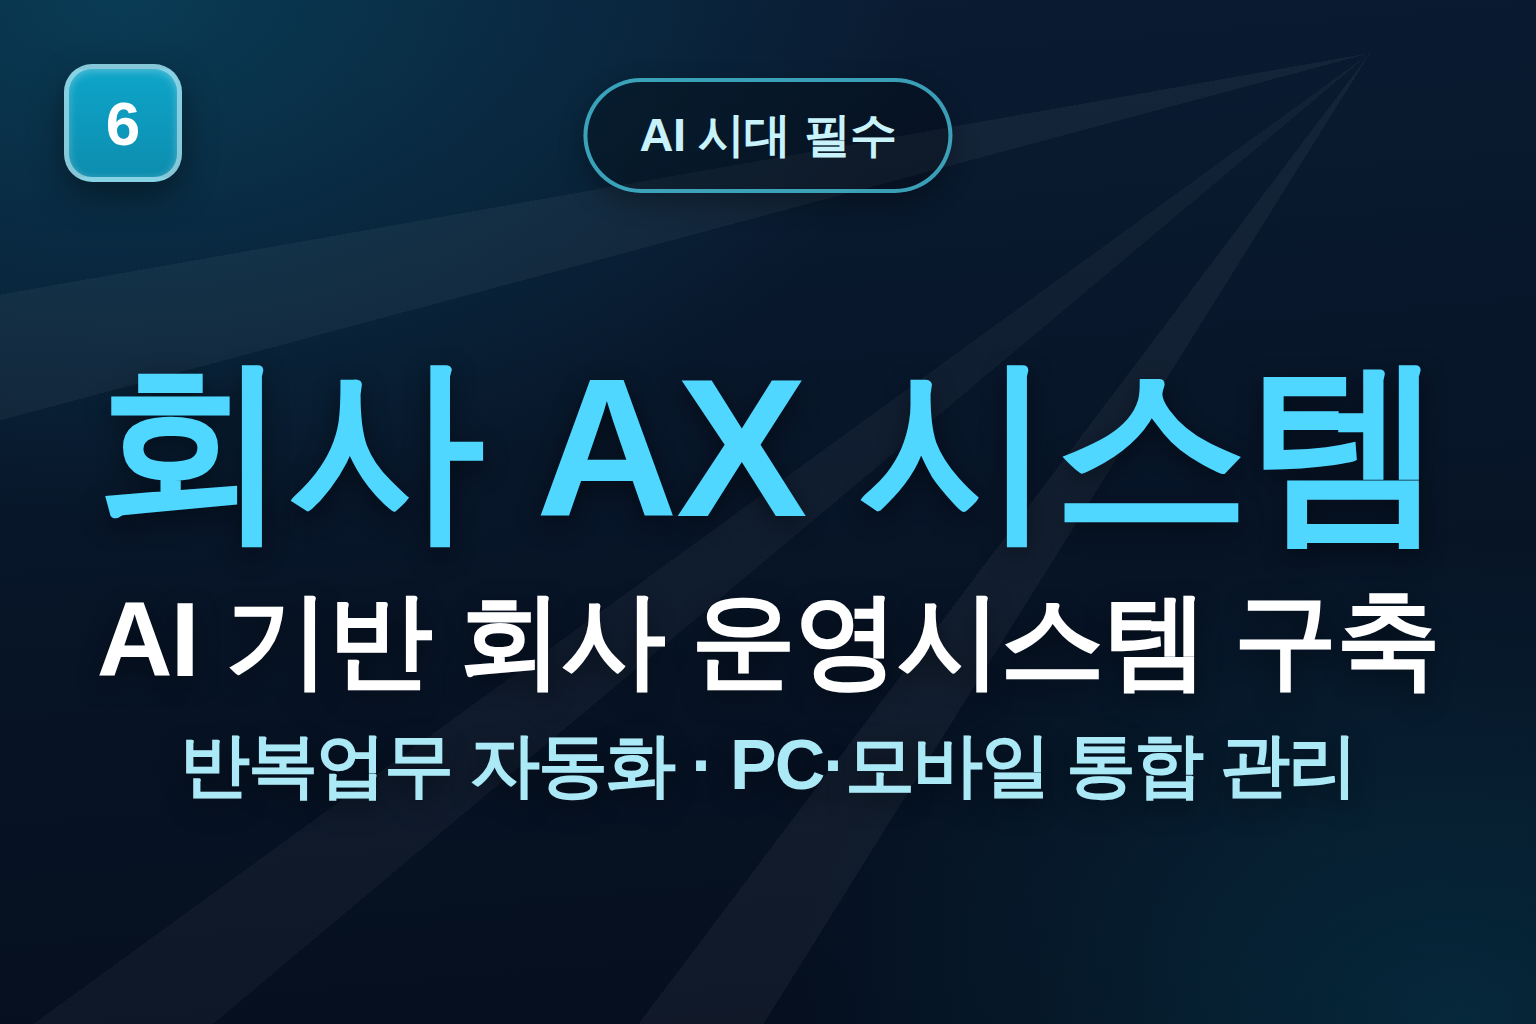
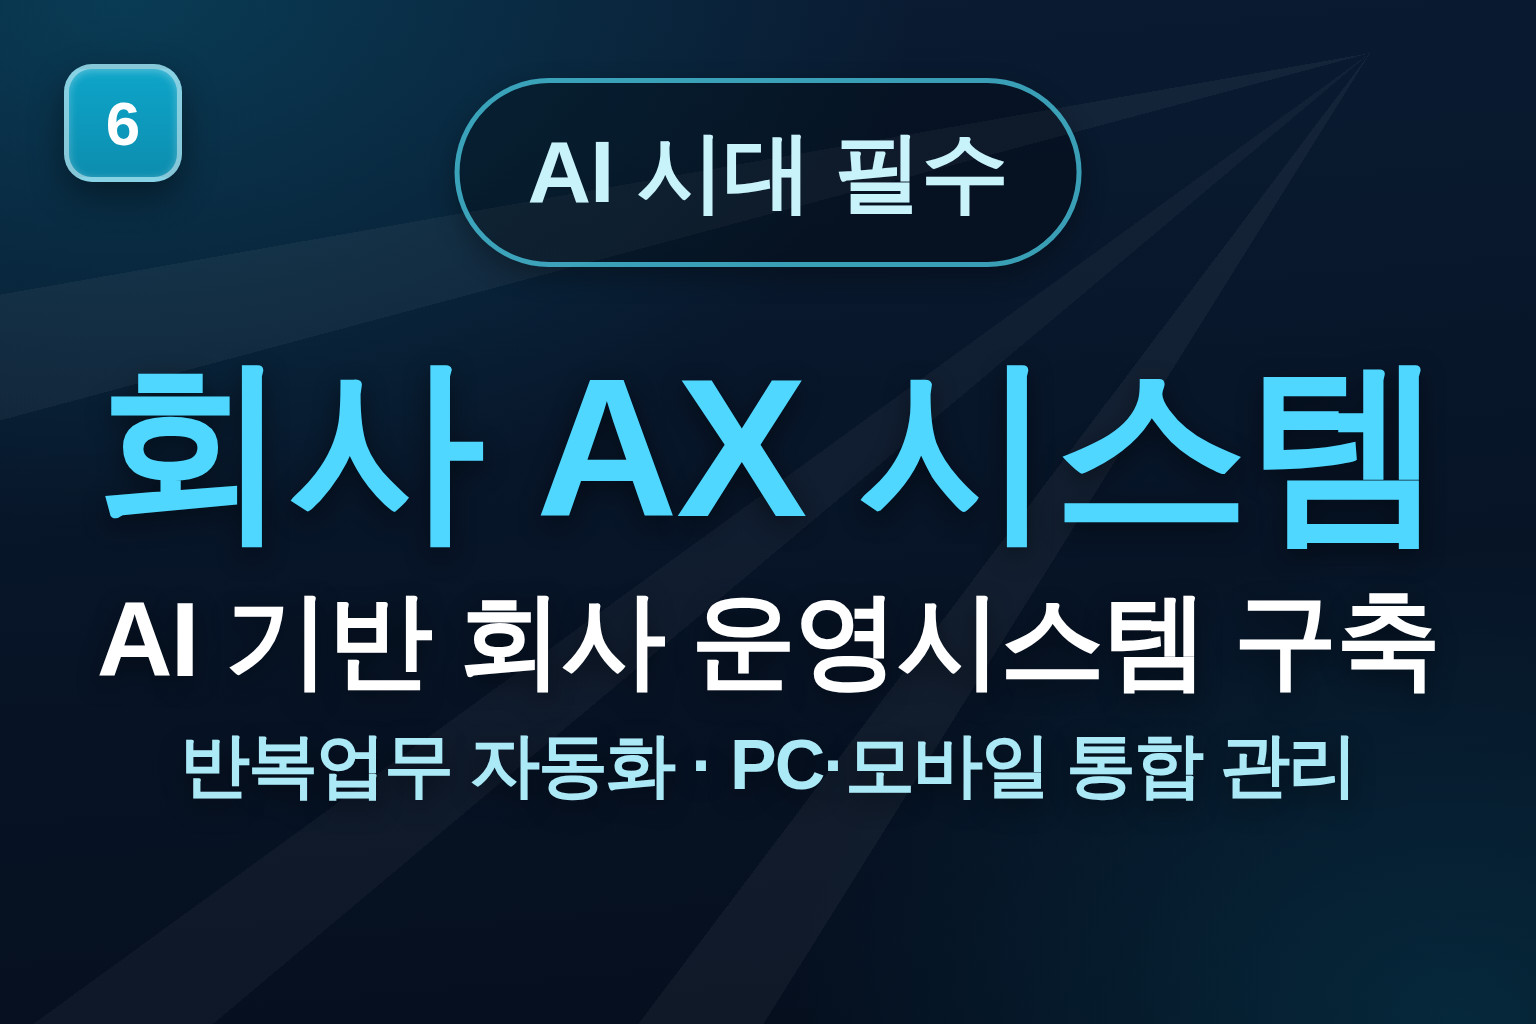
배너 서체 Gmarket Sans 교체·필 2배 확대 + 카피 보완
- 12종 배너 서체: Pretendard → Gmarket Sans Bold (프리미엄 프로모션 배너 서체)
- 상단 필 문구('연 2%대부터'·'최대 4,400만원 공제'·'수억원 자금조달의 시작' 등) 약 2배 확대(47→88px, 자동 축소 지원)
- 벤처인증(혁신성장형): '44만원 상당' → '50만원 상당' (배너·priceNote·highlightNote·FAQ·상세 강점 동기화)
- ISO: '신뢰를 인증합니다 / ISO 인증 패키지 / 9001 품질·14001 환경·45001 안전보건', 필 '대기업 거래·입찰·수출'
- 메인비즈: '우대평가·선정 가점 확보 / [메인비즈 인증] / 경영혁신형 중소기업 인증'
- 이노비즈: '수억원 자금조달 / 가점 확보 / 이노비즈 인증 — 기술혁신형 중소기업'
- 각주 크기 확대(Medium 웨이트)

Claude-Session: https://claude.ai/code/session_0127QvWRVvHFDHQbBmPVBCzc

diff --git a/src/data/businessPackages.ts b/src/data/businessPackages.ts
@@ -163,9 +163,9 @@ export const businessPackages: BusinessPackage[] = [
     short: '정책자금 우대·가점·신뢰도까지, 특허출원과 함께 준비하는 벤처확인',
     price: '199만원',
     amount: 1990000,
-    priceNote: '44만원 상당 특허출원 포함',
+    priceNote: '50만원 상당 특허출원 포함',
     highlights: ['정책자금 우대 혜택', '정부지원사업 가점 확보', '기업 신뢰도 상승 효과'],
-    highlightNote: '44만원 상당 특허출원 포함',
+    highlightNote: '50만원 상당 특허출원 포함',
     recommendedFor: ['기술성·성장성 중심으로 벤처확인을 준비하는 법인', '특허출원과 벤처인증을 함께 준비하려는 대표님'],
     deliverables: ['벤처확인 방향 진단', '기술성·성장성 스토리 정리', '특허출원 연계', '신청 준비자료 안내'],
     process: '진단 → 스토리 정리 → 특허출원 연계 → 신청 준비',
@@ -173,7 +173,7 @@ export const businessPackages: BusinessPackage[] = [
     why: '같은 사업도 기술성·성장성 관점으로 정리하면 다르게 보입니다. 혁신성장형 벤처확인 준비에 맞춰 스토리를 재구성하고 특허출원을 연계합니다.',
     faqs: [
       { q: '벤처인증 취득을 보장하나요?', a: '아니요. 벤처기업확인은 기관 심사 사항입니다. 저희는 기술성·성장성 스토리 설계와 신청 준비를 돕습니다.' },
-      { q: '특허출원이 포함되나요?', a: '네. 44만원 상당 특허출원을 연계해 함께 준비합니다.' },
+      { q: '특허출원이 포함되나요?', a: '네. 50만원 상당 특허출원을 연계해 함께 준비합니다.' },
       { q: '기술기업이 아니어도 되나요?', a: '업종에 맞는 기술성·성장성 관점을 함께 찾아 정리합니다.' },
     ],
     visualType: 'venture',

diff --git a/src/data/businessDetailContent.ts b/src/data/businessDetailContent.ts
@@ -145,7 +145,7 @@ export const detailContent: Record<string, DetailContent> = {
     whyPoints: [
       { t: '방향부터 잡아드립니다', d: '혁신성장유형 기준으로 우리 회사가 어디쯤인지 먼저 확인합니다.' },
       { t: '스토리를 다시 씁니다', d: '심사자 눈에 들어오게, 기술성·성장성 관점으로 정리합니다.' },
-      { t: '특허까지 묶어서 진행합니다', d: '44만원 상당 특허출원이 패키지에 포함돼 있습니다.' },
+      { t: '특허까지 묶어서 진행합니다', d: '50만원 상당 특허출원이 패키지에 포함돼 있습니다.' },
     ],
     afterLine: '대표님 회사는',
     afterAccent: '이렇게 바뀝니다',
